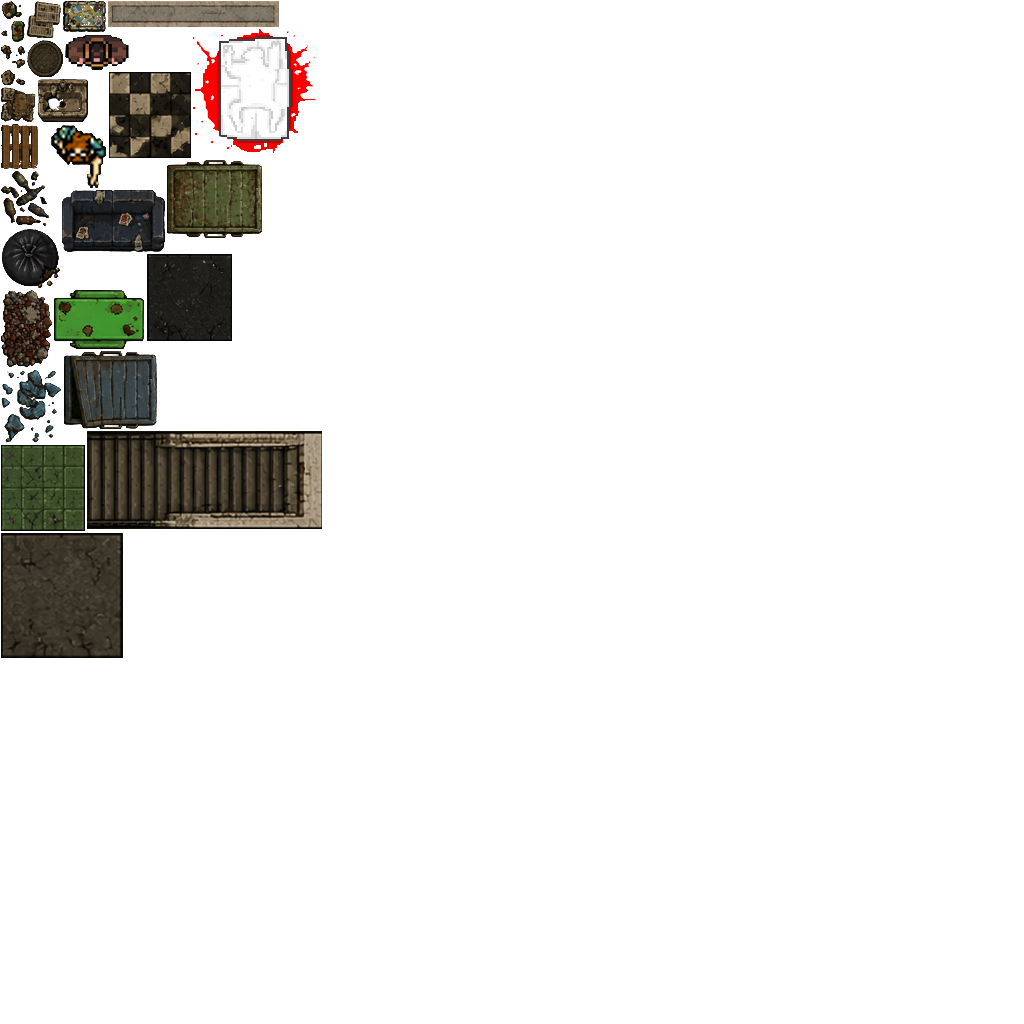
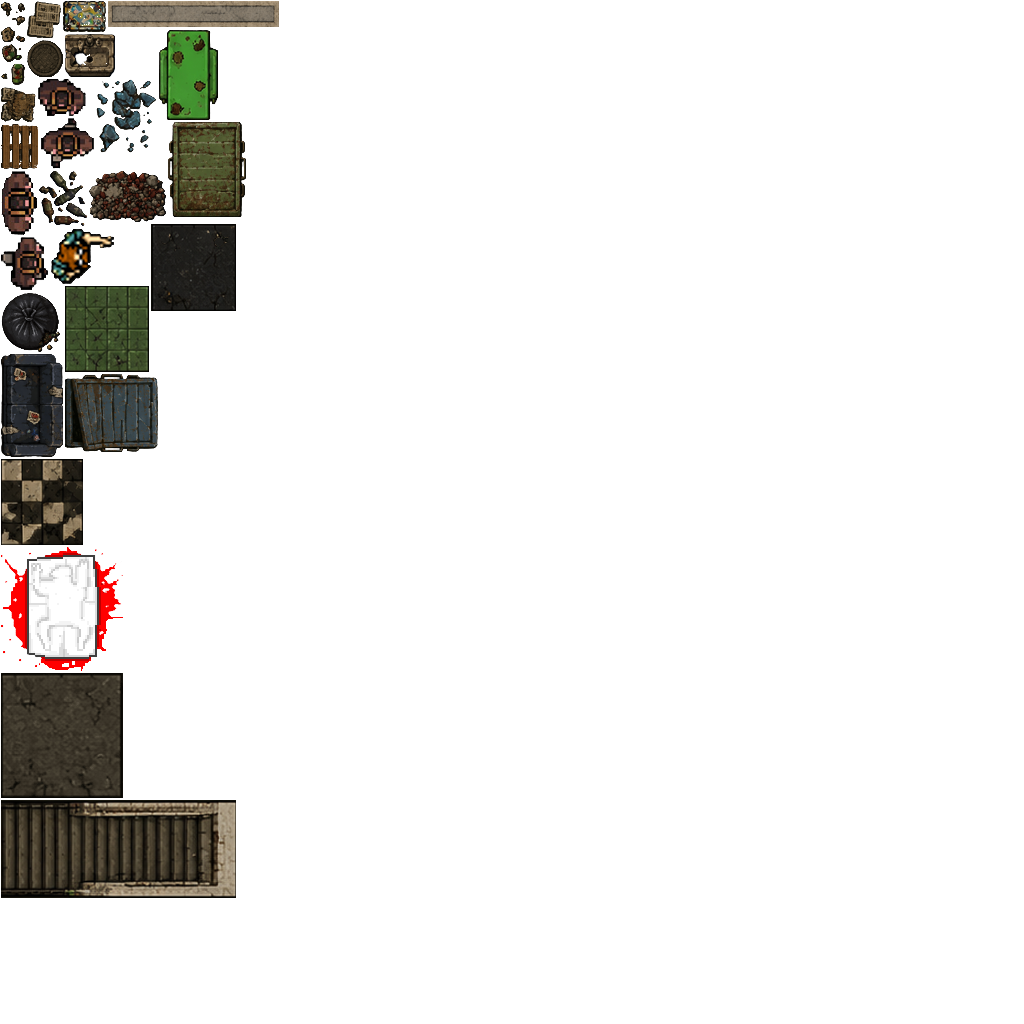
feat: add hero walk animations

Changed region(s): [[0.0, 0.0, 0.3125, 0.875]]

diff --git a/src/gameplay/player.js b/src/gameplay/player.js
@@ -8,9 +8,11 @@ function initPlayer(gridX, gridY, rX, rY) {
 
     player.__x = cellCenterX - worldState.halfWidth;
     player.__y = cellCenterY - worldState.halfHeight;
-    
+
     player.gridX = gridX;
     player.gridY = gridY;
+
+    registerHeroAnimations();
 
     rotatePlayer(rX, rY);
 }
@@ -21,8 +23,15 @@ function movePlayer(x, y) {
     const targetX = player.gridX + x;
     const targetY = player.gridY + y;
 
-    consoleLog({targetX,targetY,x,y,playerX:player.gridX,playerY:player.gridY});
-    
+    consoleLog({
+        targetX,
+        targetY,
+        x,
+        y,
+        playerX: player.gridX,
+        playerY: player.gridY
+    });
+
     rotatePlayer(x, y);
 
     if (!isPlayerMovePossible(targetX, targetY)) return;
@@ -35,20 +44,23 @@ function movePlayer(x, y) {
     const targetPixelX = (player.gridX * TILE_SIZE) + (TILE_SIZE / 2) - worldState.halfWidth;
     const targetPixelY = (player.gridY * TILE_SIZE) + (TILE_SIZE / 2) - worldState.halfHeight;
 
+    player.__img = "hero_walk_anim"; 
+
     player.__anim({
         __x: targetPixelX,
         __y: targetPixelY
     }, STEP_DURATION);
 
     _setTimeout(() => {
-        isAnimating = false; 
-    }, STEP_DURATION); 
+        isAnimating = false;
+        player.__img = "hero_idle"; 
+    }, STEP_DURATION);
 }
 
 function rotatePlayer(x, y) {
     if (!player) return;
 
-    let targetAngle = atan2(-y, x) * (180 / PI);
+    let targetAngle = atan2(-y, x) * (180 / PI); //RAD2DEG
 
     player.__rotate = targetAngle;
 }

diff --git a/src/core/animations-registry.js b/src/core/animations-registry.js
@@ -1,0 +1,19 @@
+//fps
+//frames
+//actions
+//padFormat
+//preparedFames
+//reverseLoop
+
+const heroWalk = [
+    "hero_walk_1",
+    "hero_walk_2",
+    "hero_walk_3",
+    "hero_walk_1",
+    "hero_walk_2",
+    "hero_walk_3"
+]
+
+function registerHeroAnimations() {
+    registerSpriteSheetAnimations({"hero_walk_anim": [6, 8, heroWalk, 0, 0, 0, false]});
+}

diff --git a/src/level/level-init.js b/src/level/level-init.js
@@ -4,7 +4,7 @@ function initLevel() {
     level = null;
     player = null;
 
-    const curLvl = "level_2" //!
+    const curLvl = "level_1" //!
 
     const initPlayerSpawnX = levelsConfig[curLvl].playerSpawnX;
     const initPlayerSpawnY = levelsConfig[curLvl].playerSpawnY;

diff --git a/src/core/constants.js b/src/core/constants.js
@@ -3,7 +3,7 @@ const TILE_SIZE = 100;
 const STEP_DURATION = 0.7;
 
 const PLAYER_CONFIG = {
-        __img: "hero_sprite",
+        __img: "hero_idle",
         __size: [35, 65],
         __ofs: [0, 0, -20]
 };
